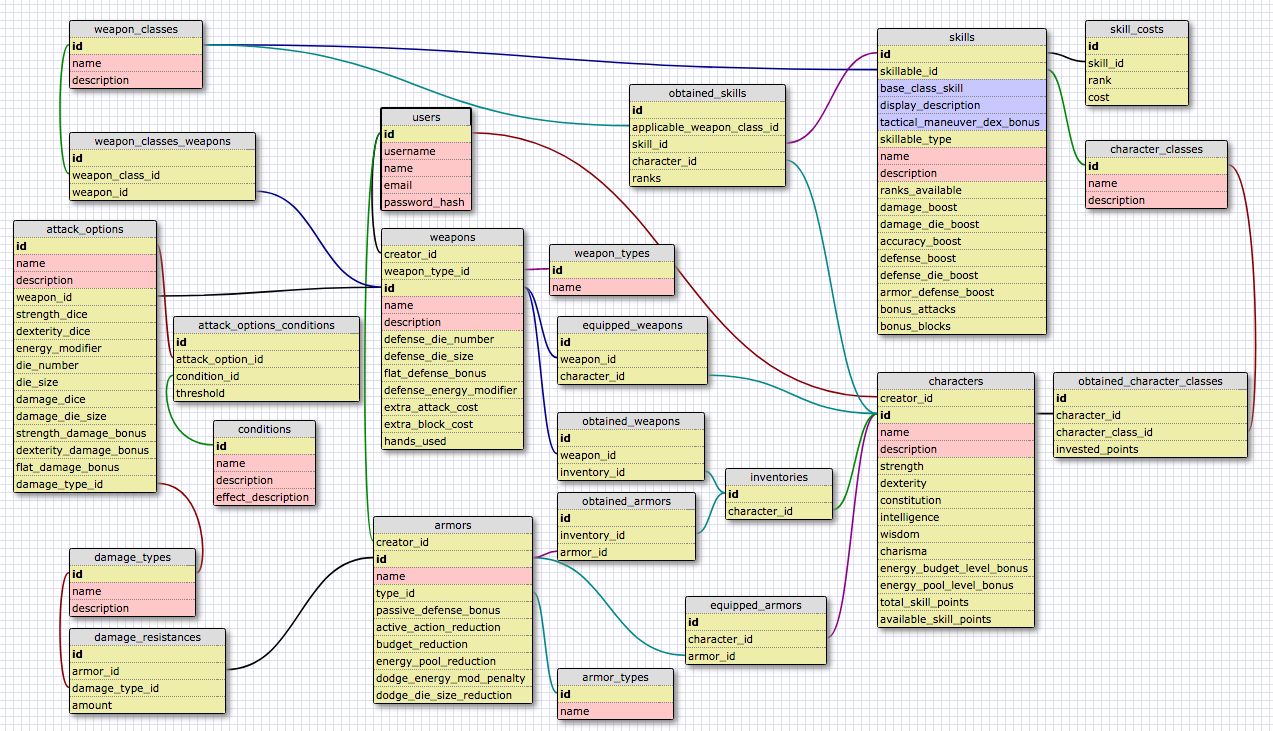
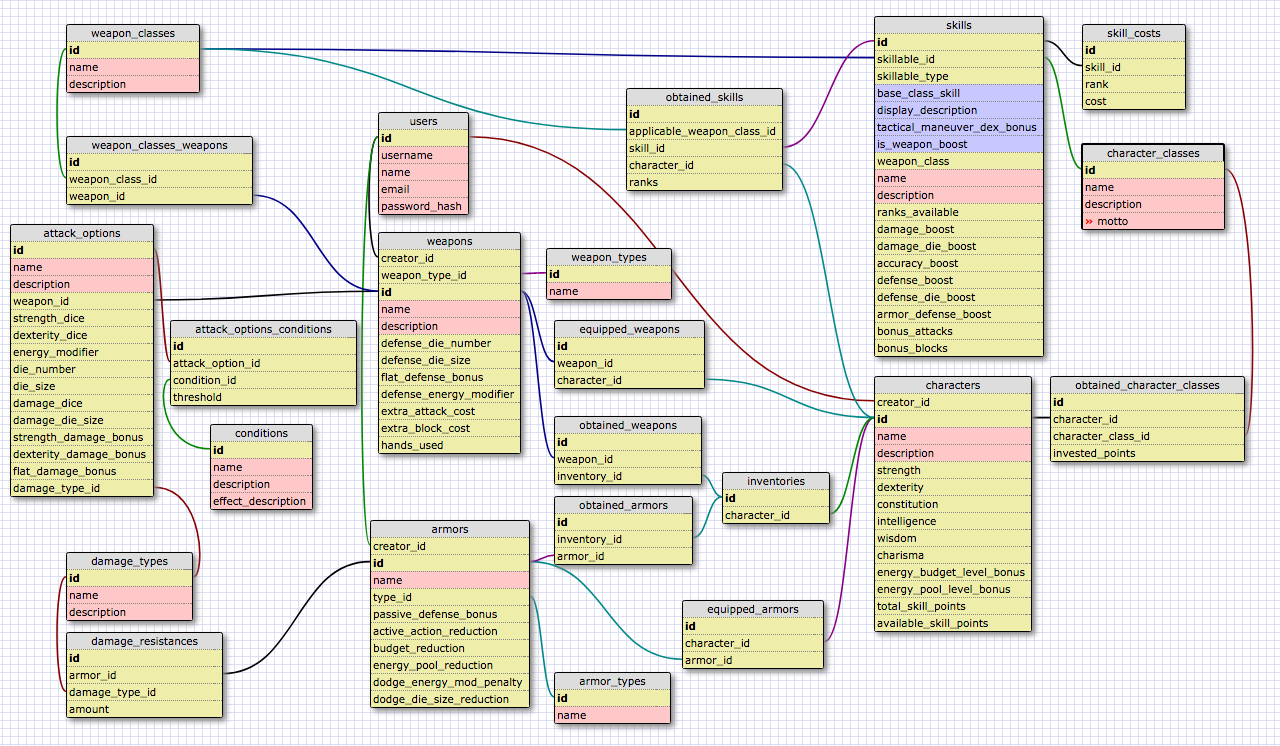
Add motto to character class, add weapon numbers to skills and add a good portion of seed data
Seed data added includes: weapons, weapon classes, core user, damage types, armor types, conditions, and character classes

diff --git a/db/seeds.rb b/db/seeds.rb
@@ -1,7 +1,48 @@
-# This file should contain all the record creation needed to seed the database with its default values.
-# The data can then be loaded with the rails db:seed command (or created alongside the database with db:setup).
-#
-# Examples:
-#
-#   movies = Movie.create([{ name: 'Star Wars' }, { name: 'Lord of the Rings' }])
-#   Character.create(name: 'Luke', movie: movies.first)
+# Users
+core_user = User.create!(username: 'Empire: core', email: 'dillonbarevalo@gmail.com', name: 'Dillon and Jack', password: 'donothackme', password_confirmation: 'donothackme')
+
+# Weapon Classes
+class1 = WeaponClass.create!(name: 'Power Weapons', description: "These weapons include such things as axes, clubs, and heavy swords. The trees for power weapons are fairly minimal and scale off of strength. These weapons are strong without any skills spent in them with average to high attack and high damage. Type 1 Weapons are wielded with either 1 or 2 hands, depending on the weapon. These weapons are somewhat lacking in defense, but to a low level character, the offensive capabilities they have are simply devastating. The problem with Class 1 weapons is they have few skills to boost their attack and few skills which add meaningful tactical choices, making them scale very poorly into the late game. No matter how high their damage gets, if you can’t hit someone, you can’t hurt them.")
+class2 = WeaponClass.create!(name: "Finesse Weapons", description: "Type 2 weapons are one handed weapons that can be wielded by themselves, with another weapon (not yet), or with a shield. These weapons are often difficult to use initially but scale very well when skill points are sunk into them. They scale off of either dexterity and strength, or one of the two. Class 2 weapons have low damage and low attack numbers initially (though they usually have fairly high defensive numbers) but can scale the attack extremely well and damage numbers fairly well. What they lack in early game strength they make up for in both late game strength and the defensive capabilities (especially when coupled with a shield) to get you there.")
+shields = WeaponClass.create!(name: 'shields', description: "Ultimately probably won't be a weapon class, but at the moment the website is young enough that I haven't separated them yet. It's a shield, silly.")
+
+# Damage Types
+slashing = DamageType.create!(name: 'slashing', description: 'A cut without much impact behind it. Think the cut of a light sword.')
+piercing = DamageType.create!(name: 'piercing', description: 'An impact with a sharp weapon, but not one with incredible mass behind it. Think arrow or rapier thrust.')
+bludgeoning = DamageType.create!(name: 'bludgeoning', description: 'A heavy impact where no sharp edge is present. Think clubs and hammers.')
+bludgeoning_slashing = DamageType.create!(name: 'bludgeoning/slashing', description: 'A heavy impact with an edged weapon. Think large axes or heavy swords. Less of a slice and more of a cleave.')
+bludgeoning_piercing = DamageType.create!(name: 'bludgeoning/piercing', description: 'An impact with a sharp point meant to penetrate. Think war picks and half swording.')
+
+# Armor Types
+light_armor = ArmorType.create!(name: 'Light')
+medium_armor = ArmorType.create!(name: 'Medium')
+heavy_armor = ArmorType.create!(name: 'Heavy')
+
+# Conditions
+off_balance = Condition.create!(name: "Off Balance", description: "A character has lost their balance and is in danger of falling over.", effect_description: "While off balance, every action that creates a MoV has a shift of -1 to the off balance character applied on it. If an character under the Off Balance condition is knocked off balance a second time that character is knocked prone. Some skills (eventually) will allow execution of maneuvers in off balance positions. Recovery may be made at the beginning of a cycle by sacrificing one’s offensive round, and movement speed is halved.")
+prone = Condition.create!(name: "Prone", description: "A character has fallen over! There is not currently (and may never be) a difference between prone (on belly) and supine (on back).", effect_description: "While Prone apply a -2 shift in MoV. Recovery may be attempted at the beginning of a cycle by sacrificing half of one’s energy budget and sacrificing one’s offensive round; no movement be taken save a required Repositioning Check to stand back up (which can incur more MoV shifts upon failure).")
+wounded = Condition.create!(name: "Wounded", description: 'A character has an open wound. Movement may tear it and/or cause significant pain. Bleeding is likely to follow.', effect_description: "Using more than 3/4 of round budget used inflicts 1d4 damage per excess point of energy. Heal or significant rest ends. Triggers Bleeding after one cycle. Stacking wounds increases the damage dealt (by 1d4 per energy point) but not the threshold for it. SAVE: roll under CON by 2 (two times your CON stat) to negate.")
+severed_tendon = Condition.create!(name: "Severed Tendon", description: "A character has had one of their tendons cut and can no longer control the associated limb at all as they cannot engage their muscles", effect_description: "Triggered during a failed block or dodge (if triggered from Sweep count it as a leg regardless of type of defensive maneuver), where the effect is triggered for the arm that was used to block, or a leg if used for the dodge, and thus can no longer be used. If a leg has a tendon severed movement is halved and sprinting becomes impossible. Also triggers Wounded without Bleeding. If the attack that triggered severed tendon was not blocked or dodged the attacker may choose the limb to damage")
+bleeding = Condition.create!(name: "Bleeding", description: "A character has begun bleeding to a significant enough extent that they must pay attention to it.", effect_description: "A bleeding character must spend 10 percent of their energy budget per round on ignoring the wound and staying in combat. Bleeding can stack exactly twice. SAVE: roll under CON by 3 (three times your CON stat) to negate.")
+broken_bone = Condition.create!(name: "Broken Bone", description: "A character has broken a bone and cannot use the limb effectively anymore.", effect_description: "Cannot use limbs associated with broken bones without a massive energy drain. If limbs associated with the injury are used anyway, they incur a -1 MoV shift. SAVE: roll under CON by 1 (your CON stat) to negate.")
+Condition.create!(name: "Shock", effect_description: "Shock is triggered by any specific weapon but instead by any weapon upon dealing massive damage in a single strike. If 50 percent or more of a character’s total health is dealt in one round they must make a CON by 4 check to stay stable (not enter Unconscious); if 75 percent or more, CON by 2.")
+
+# Character Classes
+warrior = CharacterClass.create!(name: "Warrior", description: "A Warrior’s primary focus is damage. They usually prefer class 1 and 3 types of weapons (explained in the weapons section), but are known to make good use out of anything they can get their hands on. Warriors use all types of armor as they vary from savage barbarians who get stronger from massive surges of adrenaline upon becoming hurt to tactical powerhouses who subtly shift their position to allow blows to glance off their heavy armor while dishing out massive damage with maximum prejudice. A Warrior’s passive skills primarily focus on improving their damage (though not so much their accuracy), their damage resistance, and modifying their energy. Their active class skills include such things as incredibly powerful strikes aimed at weapons to disarm, flurries of attacks that have a chance of denying their opponent their next offensive round, and energy manipulation such as sacrificing any defensive allocation to gain additional budget for their offensive allocation.Warriors are recommended to have high Strength and Dexterity.", motto: "The best defense is a good offense!")
+soldier = CharacterClass.create!(name: 'Soldier', description: "A Soldier lives and dies by his shield. Often sporting heavy armor and using a variety of weapons (and not uncommonly being trained in more than one) the Soldier’s true strength is in his shield arm. Preferring defense to offense the Soldier strikes when his opponent is off balance, not leaving the safety of his shield unless he knows he has a solid advantage. Soldiers are almost never surprised and are nearly always prepared to defend themselves. Soldiers range from being loners who do not trust others to watch their backs to being a team based tank, making shield walls and using formations to avoid the perils of being flanked. A Soldier’s passive skills primarily focus on resistance to negative positioning conditions, improved defense, and combat readiness. Soldier active skills include such things as sacrificing offensive rounds to advance with their shield on defensive rounds in order to catch enemies off balance, taking defensive actions to protect party members instead of or in addition to themselves, and transitioning defense points that never ended up being used into attacks in the following round.", motto: "Perhaps the pen is mightier than the sword, perhaps it isn’t. I do not know. What I can tell you, however, is that the shield is mightier than the sword.")
+
+# Weapon Types
+sword = WeaponType.create!(name: "Sword")
+light_shield = WeaponType.create!(name: 'Light shield')
+heavy_shield = WeaponType.create!(name: 'Heavy shield')
+axe = WeaponType.create!(name: 'Axe')
+club = WeaponType.create!(name: 'Club')
+pick = WeaponType.create!(name: 'War pick')
+
+# Weapons
+battle_axe = Weapon.create!(user_id: core_user.id, weapon_type_id: axe.id, name: 'Battle Axe', description: 'A large, 2 handed axe with heavy cutting power and good reach. A Dane Axe is a good example.', defense_die_number: 1, defense_die_size: 10, flat_defense_bonus: 5, defense_energy_modifier: 1, extra_block_cost: 30, extra_attack_cost: 30, hands_used: 2)
+war_pick = Weapon.create!(user_id: core_user.id, weapon_type_id: pick.id, name: 'War Pick', description: 'A large, 2 handed haft with a spike protruding from one side at the end. Many war hammers feature such a pick.', defense_die_number: 1, defense_die_size: 10, flat_defense_bonus: 5, defense_energy_modifier: 1, extra_block_cost: 30, extra_attack_cost: 35, hands_used: 2)
+falchion = Weapon.create!(user_id: core_user.id, weapon_type_id: sword.id, name: 'falchion', description: 'A medium length, slightly curved, broad bladed, heavy sword meant for brutal chops that can cleave through armor and sever limbs.', defense_die_number: 1, defense_die_size: 4, flat_defense_bonus: 5, defense_energy_modifier: 1, extra_block_cost: 30, extra_attack_cost: 27, hands_used: 1)
+hand_axe = Weapon.create!(user_id: core_user.id, weapon_type_id: axe.id, name: 'Hand Axe', description: "A small, one handed axe that can strike with precision and efficiency. Its head heavy nature make its chops surprisingly powerful.", defense_die_number: 1, defense_die_size: 6, flat_defense_bonus: 5, defense_energy_modifier: 0.5, extra_block_cost: 25, extra_attack_cost: 25, hands_used: 1)
+mace = Weapon.create!(user_id: core_user.id, weapon_type_id: club.id, name: 'Mace', description: 'A metal weight on the end of a handle maces come in many shapes and sizes. They all specialize in dealing massive impact damage with a head heavy, powerful strike.', defense_die_number: 1, defense_die_size: 4, flat_defense_bonus: 5, defense_energy_modifier: 1, extra_block_cost: 35, extra_attack_cost: 30, hands_used: 1)
+side_sword = Weapon.create!(user_id: core_user.id, weapon_type_id: sword.id, name: 'Side Sword', description: 'A well balanced, straight, tapering sword. Fairly thin and mobile it can both cut and stab fairly well but does not excel in any specific category.', defense_die_number: 1, defense_die_size: 6, flat_defense_bonus: 8, defense_energy_modifier: 1.5, extra_block_cost: 25, extra_attack_cost: 25, hands_used: 1)

diff --git a/db/migrate/20170716003229_create_skills.rb b/db/migrate/20170716003229_create_skills.rb
@@ -7,6 +7,8 @@ class CreateSkills < ActiveRecord::Migration[5.0]
       t.string :name
       t.text :description
       t.boolean :tactical_maneuver_dex_bonus, default: false
+      t.boolean :is_weapon_boost
+      t.integer :weapon_class
       t.integer :ranks_available, default: 0
       t.integer :damage_boost, default: 0
       t.integer :damage_die_boost, default: 0

diff --git a/db/migrate/20170716042804_create_character_classes.rb b/db/migrate/20170716042804_create_character_classes.rb
@@ -3,6 +3,7 @@ class CreateCharacterClasses < ActiveRecord::Migration[5.0]
     create_table :character_classes do |t|
       t.string :name
       t.text :description
+      t.string :motto
 
       t.timestamps
     end
